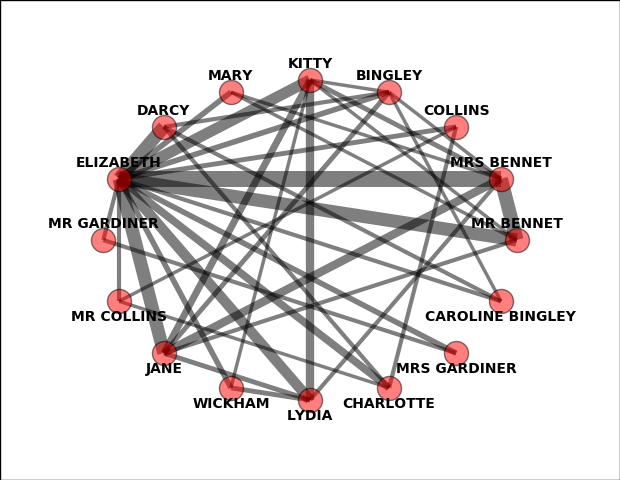
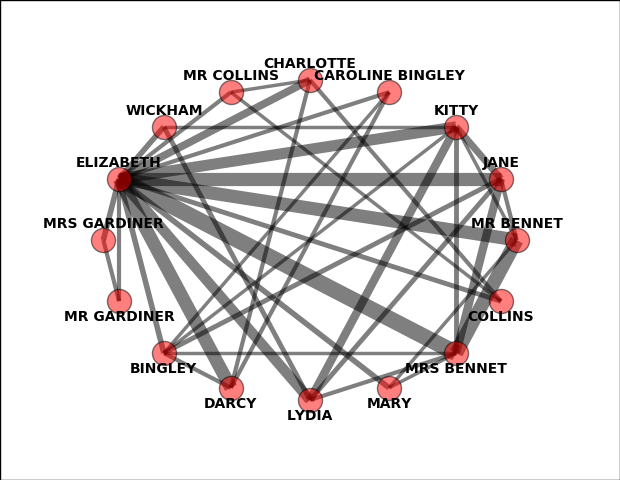
char network update

Changed region(s): [[0.0613, 0.0938, 0.9194, 0.875]]

diff --git a/network_chars_d3/Pride-and-Prejudice_d3.html b/network_chars_d3/Pride-and-Prejudice_d3.html
@@ -45,7 +45,7 @@ var svg = d3.select("svg"),
     {"source":0,"target":2,"weight":10}
   ]
 }; */
-var json = {"nodes": [{"group": 1, "name": "MRS BENNET"}, {"group": 1, "name": "MR BENNET"}, {"group": 1, "name": "KITTY"}, {"group": 1, "name": "ELIZABETH"}, {"group": 1, "name": "MARY"}, {"group": 1, "name": "BINGLEY"}, {"group": 1, "name": "JANE"}, {"group": 1, "name": "LYDIA"}, {"group": 1, "name": "COLLINS"}, {"group": 1, "name": "MR COLLINS"}, {"group": 1, "name": "CHARLOTTE"}, {"group": 1, "name": "WICKHAM"}, {"group": 1, "name": "MR GARDINER"}, {"group": 1, "name": "MRS GARDINER"}, {"group": 1, "name": "CAROLINE BINGLEY"}, {"group": 1, "name": "DARCY"}], "links": [{"target": 1, "weight": 20, "source": 0}, {"target": 2, "weight": 7, "source": 0}, {"target": 3, "weight": 23, "source": 0}, {"target": 4, "weight": 5, "source": 0}, {"target": 5, "weight": 5, "source": 0}, {"target": 6, "weight": 12, "source": 0}, {"target": 7, "weight": 6, "source": 0}, {"target": 3, "weight": 7, "source": 8}, {"target": 9, "weight": 5, "source": 8}, {"target": 10, "weight": 6, "source": 8}, {"target": 2, "weight": 5, "source": 11}, {"target": 3, "weight": 8, "source": 11}, {"target": 7, "weight": 7, "source": 11}, {"target": 2, "weight": 5, "source": 1}, {"target": 3, "weight": 19, "source": 1}, {"target": 4, "weight": 5, "source": 1}, {"target": 6, "weight": 6, "source": 1}, {"target": 3, "weight": 16, "source": 2}, {"target": 5, "weight": 5, "source": 2}, {"target": 6, "weight": 10, "source": 2}, {"target": 7, "weight": 12, "source": 2}, {"target": 5, "weight": 8, "source": 3}, {"target": 12, "weight": 6, "source": 3}, {"target": 13, "weight": 8, "source": 3}, {"target": 4, "weight": 8, "source": 3}, {"target": 14, "weight": 6, "source": 3}, {"target": 9, "weight": 6, "source": 3}, {"target": 15, "weight": 19, "source": 3}, {"target": 6, "weight": 19, "source": 3}, {"target": 7, "weight": 15, "source": 3}, {"target": 10, "weight": 11, "source": 3}, {"target": 13, "weight": 6, "source": 12}, {"target": 5, "weight": 5, "source": 14}, {"target": 15, "weight": 6, "source": 14}, {"target": 15, "weight": 6, "source": 5}, {"target": 6, "weight": 7, "source": 5}, {"target": 10, "weight": 5, "source": 9}, {"target": 10, "weight": 6, "source": 15}, {"target": 7, "weight": 7, "source": 6}]};
+var json = {"links": [{"weight": 6, "target": 1, "source": 0}, {"weight": 6, "target": 2, "source": 0}, {"weight": 6, "target": 4, "source": 3}, {"weight": 20, "target": 5, "source": 3}, {"weight": 5, "target": 6, "source": 3}, {"weight": 19, "target": 2, "source": 3}, {"weight": 5, "target": 7, "source": 3}, {"weight": 5, "target": 5, "source": 7}, {"weight": 8, "target": 2, "source": 7}, {"weight": 5, "target": 9, "source": 8}, {"weight": 6, "target": 2, "source": 8}, {"weight": 5, "target": 10, "source": 8}, {"weight": 6, "target": 12, "source": 11}, {"weight": 6, "target": 2, "source": 11}, {"weight": 19, "target": 2, "source": 1}, {"weight": 8, "target": 2, "source": 12}, {"weight": 7, "target": 2, "source": 9}, {"weight": 6, "target": 10, "source": 9}, {"weight": 7, "target": 4, "source": 13}, {"weight": 6, "target": 5, "source": 13}, {"weight": 12, "target": 6, "source": 13}, {"weight": 15, "target": 2, "source": 13}, {"weight": 7, "target": 14, "source": 13}, {"weight": 12, "target": 5, "source": 4}, {"weight": 10, "target": 6, "source": 4}, {"weight": 19, "target": 2, "source": 4}, {"weight": 7, "target": 6, "source": 5}, {"weight": 23, "target": 2, "source": 5}, {"weight": 16, "target": 2, "source": 6}, {"weight": 5, "target": 14, "source": 6}, {"weight": 8, "target": 14, "source": 2}, {"weight": 6, "target": 1, "source": 10}, {"weight": 11, "target": 2, "source": 10}, {"weight": 7, "target": 4, "source": 15}, {"weight": 5, "target": 5, "source": 15}, {"weight": 5, "target": 6, "source": 15}, {"weight": 5, "target": 0, "source": 15}, {"weight": 8, "target": 2, "source": 15}, {"weight": 6, "target": 1, "source": 15}], "nodes": [{"group": 2, "name": "CAROLINE BINGLEY"}, {"group": 3, "name": "DARCY"}, {"group": 4, "name": "ELIZABETH"}, {"group": 5, "name": "MR BENNET"}, {"group": 6, "name": "JANE"}, {"group": 7, "name": "MRS BENNET"}, {"group": 8, "name": "KITTY"}, {"group": 9, "name": "MARY"}, {"group": 10, "name": "MR COLLINS"}, {"group": 11, "name": "COLLINS"}, {"group": 12, "name": "CHARLOTTE"}, {"group": 13, "name": "MR GARDINER"}, {"group": 14, "name": "MRS GARDINER"}, {"group": 15, "name": "LYDIA"}, {"group": 16, "name": "WICKHAM"}, {"group": 17, "name": "BINGLEY"}]};
 
 var force = d3.layout.force()
     .gravity(.05)
@@ -62,7 +62,7 @@ var link = svg.selectAll(".link")
     .data(json.links)
     .enter().append("line")
     .attr("class", "link")
-    .style("stroke-width", function(d) { return d.weight/2; });
+    .style("stroke-width", function(d) { return d.weight * 0.5; });
 
 var node = svg.selectAll(".node")
     .data(json.nodes)

diff --git a/network_chars_d3_2/Pride-and-Prejudice_d3.html b/network_chars_d3_2/Pride-and-Prejudice_d3.html
@@ -12,7 +12,7 @@ var vis = d3.select("svg");
     w = +vis.attr("width"),
     h = +vis.attr("height");
 
-var json = {"nodes": [{"group": 1, "name": "MRS BENNET"}, {"group": 1, "name": "MR BENNET"}, {"group": 1, "name": "KITTY"}, {"group": 1, "name": "ELIZABETH"}, {"group": 1, "name": "MARY"}, {"group": 1, "name": "BINGLEY"}, {"group": 1, "name": "JANE"}, {"group": 1, "name": "LYDIA"}, {"group": 1, "name": "COLLINS"}, {"group": 1, "name": "MR COLLINS"}, {"group": 1, "name": "CHARLOTTE"}, {"group": 1, "name": "WICKHAM"}, {"group": 1, "name": "MR GARDINER"}, {"group": 1, "name": "MRS GARDINER"}, {"group": 1, "name": "CAROLINE BINGLEY"}, {"group": 1, "name": "DARCY"}], "links": [{"target": 1, "weight": 20, "source": 0}, {"target": 2, "weight": 7, "source": 0}, {"target": 3, "weight": 23, "source": 0}, {"target": 4, "weight": 5, "source": 0}, {"target": 5, "weight": 5, "source": 0}, {"target": 6, "weight": 12, "source": 0}, {"target": 7, "weight": 6, "source": 0}, {"target": 3, "weight": 7, "source": 8}, {"target": 9, "weight": 5, "source": 8}, {"target": 10, "weight": 6, "source": 8}, {"target": 2, "weight": 5, "source": 11}, {"target": 3, "weight": 8, "source": 11}, {"target": 7, "weight": 7, "source": 11}, {"target": 2, "weight": 5, "source": 1}, {"target": 3, "weight": 19, "source": 1}, {"target": 4, "weight": 5, "source": 1}, {"target": 6, "weight": 6, "source": 1}, {"target": 3, "weight": 16, "source": 2}, {"target": 5, "weight": 5, "source": 2}, {"target": 6, "weight": 10, "source": 2}, {"target": 7, "weight": 12, "source": 2}, {"target": 5, "weight": 8, "source": 3}, {"target": 12, "weight": 6, "source": 3}, {"target": 13, "weight": 8, "source": 3}, {"target": 4, "weight": 8, "source": 3}, {"target": 14, "weight": 6, "source": 3}, {"target": 9, "weight": 6, "source": 3}, {"target": 15, "weight": 19, "source": 3}, {"target": 6, "weight": 19, "source": 3}, {"target": 7, "weight": 15, "source": 3}, {"target": 10, "weight": 11, "source": 3}, {"target": 13, "weight": 6, "source": 12}, {"target": 5, "weight": 5, "source": 14}, {"target": 15, "weight": 6, "source": 14}, {"target": 15, "weight": 6, "source": 5}, {"target": 6, "weight": 7, "source": 5}, {"target": 10, "weight": 5, "source": 9}, {"target": 10, "weight": 6, "source": 15}, {"target": 7, "weight": 7, "source": 6}]};
+var json = {"links": [{"weight": 6, "target": 1, "source": 0}, {"weight": 6, "target": 2, "source": 0}, {"weight": 6, "target": 4, "source": 3}, {"weight": 20, "target": 5, "source": 3}, {"weight": 5, "target": 6, "source": 3}, {"weight": 19, "target": 2, "source": 3}, {"weight": 5, "target": 7, "source": 3}, {"weight": 5, "target": 5, "source": 7}, {"weight": 8, "target": 2, "source": 7}, {"weight": 5, "target": 9, "source": 8}, {"weight": 6, "target": 2, "source": 8}, {"weight": 5, "target": 10, "source": 8}, {"weight": 6, "target": 12, "source": 11}, {"weight": 6, "target": 2, "source": 11}, {"weight": 19, "target": 2, "source": 1}, {"weight": 8, "target": 2, "source": 12}, {"weight": 7, "target": 2, "source": 9}, {"weight": 6, "target": 10, "source": 9}, {"weight": 7, "target": 4, "source": 13}, {"weight": 6, "target": 5, "source": 13}, {"weight": 12, "target": 6, "source": 13}, {"weight": 15, "target": 2, "source": 13}, {"weight": 7, "target": 14, "source": 13}, {"weight": 12, "target": 5, "source": 4}, {"weight": 10, "target": 6, "source": 4}, {"weight": 19, "target": 2, "source": 4}, {"weight": 7, "target": 6, "source": 5}, {"weight": 23, "target": 2, "source": 5}, {"weight": 16, "target": 2, "source": 6}, {"weight": 5, "target": 14, "source": 6}, {"weight": 8, "target": 14, "source": 2}, {"weight": 6, "target": 1, "source": 10}, {"weight": 11, "target": 2, "source": 10}, {"weight": 7, "target": 4, "source": 15}, {"weight": 5, "target": 5, "source": 15}, {"weight": 5, "target": 6, "source": 15}, {"weight": 5, "target": 0, "source": 15}, {"weight": 8, "target": 2, "source": 15}, {"weight": 6, "target": 1, "source": 15}], "nodes": [{"group": 2, "name": "CAROLINE BINGLEY"}, {"group": 3, "name": "DARCY"}, {"group": 4, "name": "ELIZABETH"}, {"group": 5, "name": "MR BENNET"}, {"group": 6, "name": "JANE"}, {"group": 7, "name": "MRS BENNET"}, {"group": 8, "name": "KITTY"}, {"group": 9, "name": "MARY"}, {"group": 10, "name": "MR COLLINS"}, {"group": 11, "name": "COLLINS"}, {"group": 12, "name": "CHARLOTTE"}, {"group": 13, "name": "MR GARDINER"}, {"group": 14, "name": "MRS GARDINER"}, {"group": 15, "name": "LYDIA"}, {"group": 16, "name": "WICKHAM"}, {"group": 17, "name": "BINGLEY"}]};
 
 var labelAnchors = [];
 var labelAnchorLinks = [];
@@ -64,7 +64,7 @@ var link = vis.selectAll("line.link")
 	.append("svg:line")
 	.attr("class", "link")
 	.style("stroke", "#CCC")
-	.style("stroke-width", function(d) { return d.weight/2; });
+	.style("stroke-width", function(d) { return d.weight * 0.5; });
 
 
 var node = vis.selectAll("g.node")
